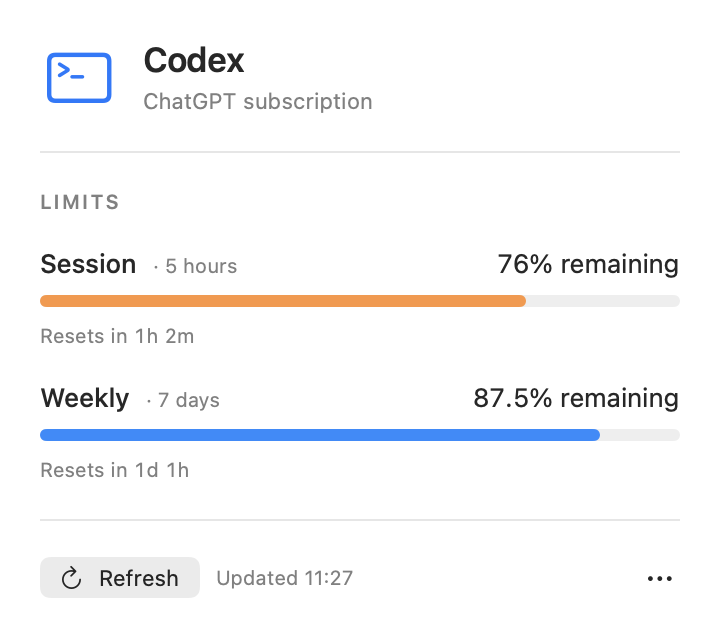
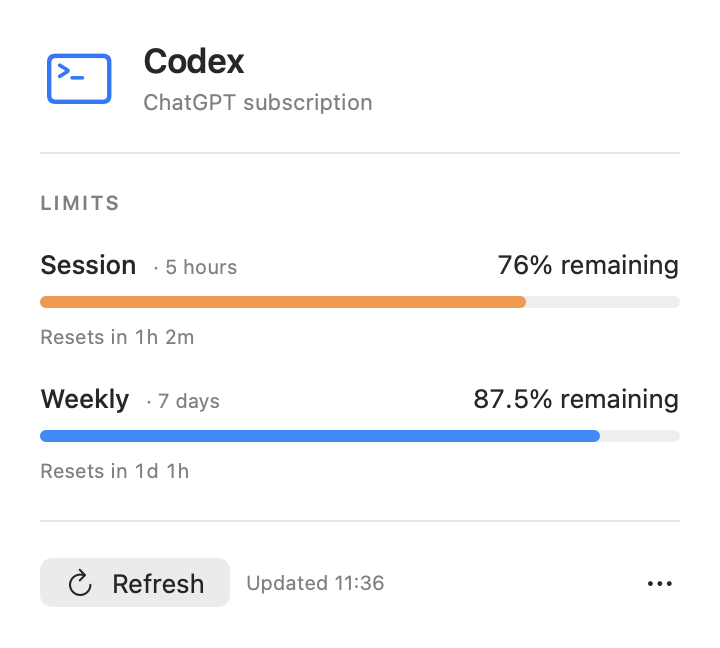
Restore native Refresh styling and keep its layout stable

diff --git a/Sources/AgentUsage/UsagePanel.swift b/Sources/AgentUsage/UsagePanel.swift
@@ -125,13 +125,26 @@ struct UsagePanel: View {
     private var footer: some View {
         HStack(spacing: 8) {
             Button(action: onRefresh) {
-                Label(isRefreshing ? "Refreshing…" : "Refresh", systemImage: "arrow.clockwise")
+                Label {
+                    Text("Refresh")
+                } icon: {
+                    ZStack {
+                        Image(systemName: "arrow.clockwise")
+                            .opacity(isRefreshing ? 0 : 1)
+                        if isRefreshing {
+                            ProgressView()
+                                .controlSize(.mini)
+                        }
+                    }
+                    .frame(width: 16, height: 16)
+                    .accessibilityHidden(true)
+                }
             }
-            .buttonStyle(.bordered)
-            .controlSize(.small)
             .fixedSize()
             .disabled(isRefreshing)
             .keyboardShortcut("r", modifiers: .command)
+            .accessibilityLabel(isRefreshing ? "Refreshing usage" : "Refresh")
+            .help(isRefreshing ? "Refreshing usage…" : "Refresh usage")
 
             if let snapshot {
                 Text("\(error == nil ? "Updated" : "Last updated") \(snapshot.fetchedAt.formatted(date: .omitted, time: .shortened))")

diff --git a/README.md b/README.md
@@ -18,7 +18,7 @@ Loading and authentication errors appear in the panel. If a refresh fails after 
 
 <img src="docs/dashboard.png" alt="Codex dashboard with session and weekly usage meters" width="360">
 
-*Native panel rendered with sample data.*
+*Rendered with sample data. Native button appearance may differ in the menu-bar panel.*
 
 ## Run
 
